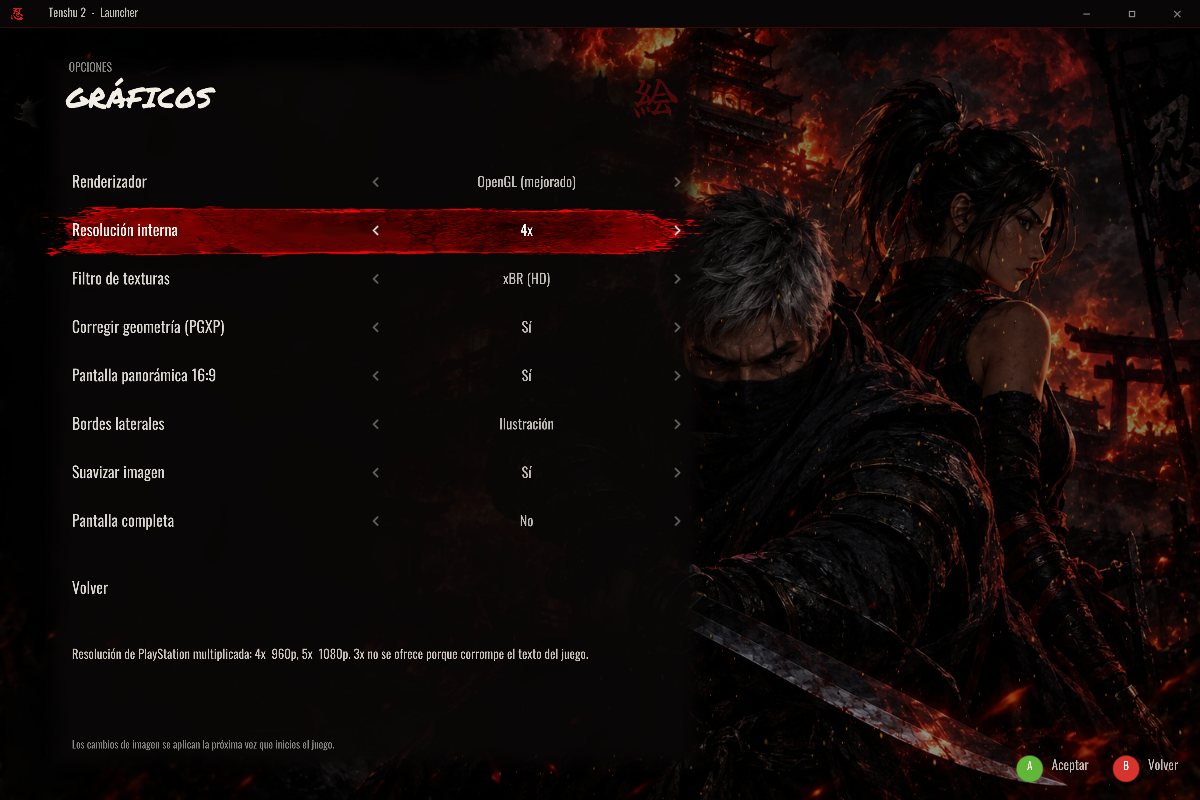
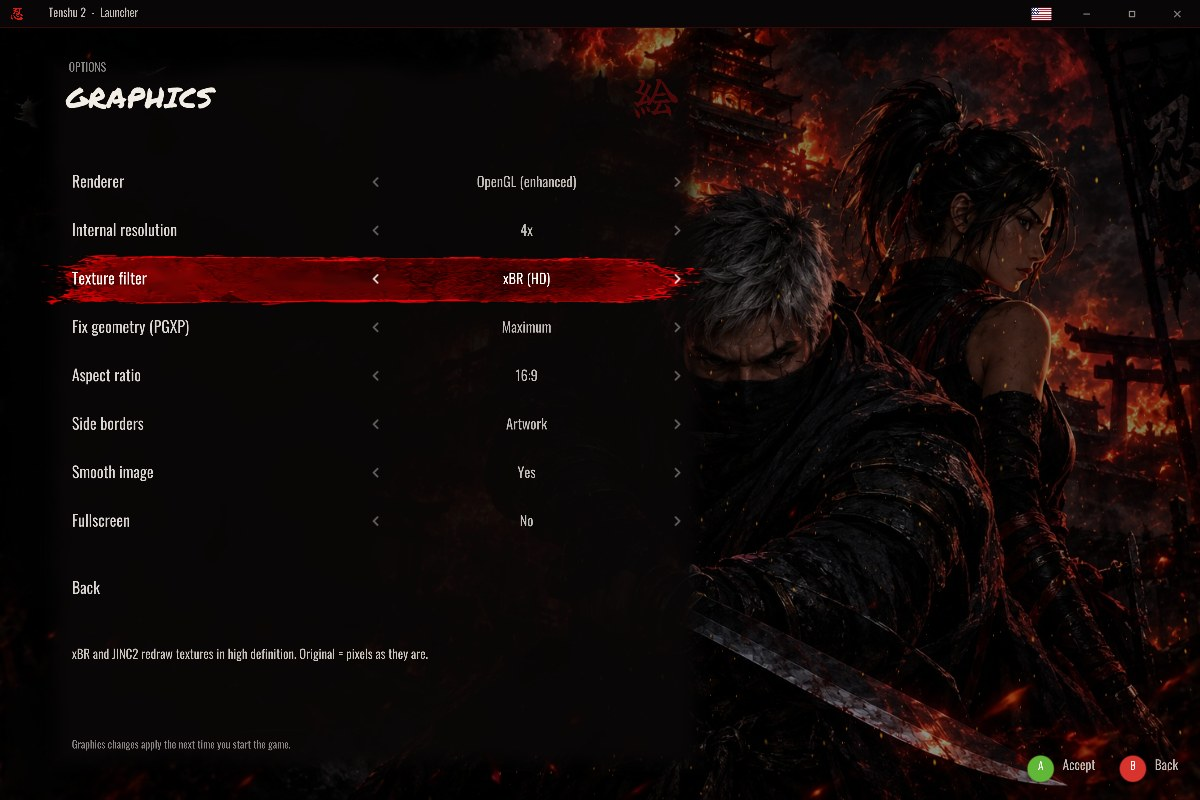
Versión 1.1.1: capturas del README en inglés

diff --git a/src/main.cpp b/src/main.cpp
@@ -39,7 +39,7 @@ extern "C" {
 
 namespace {
 
-constexpr const char* kVersion = "v1.1.0";
+constexpr const char* kVersion = "v1.1.1";
 constexpr float kImgW = 1536.0f;
 constexpr float kImgH = 1024.0f;
 constexpr float kTitleH = 36.0f;

diff --git a/README.md b/README.md
@@ -62,6 +62,8 @@ ni mensajes extraños.
 
 ## 📸 Capturas
 
+<sub>Interfaz en inglés; el launcher también está en español (bandera de arriba a la derecha).</sub>
+
 <table>
   <tr>
     <td><img src="docs/menu.jpg" alt="Menú principal"></td>
